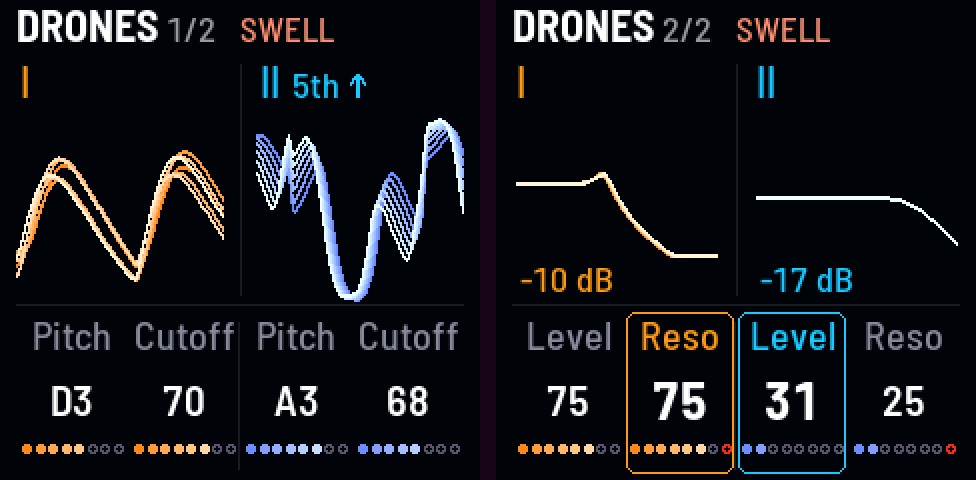
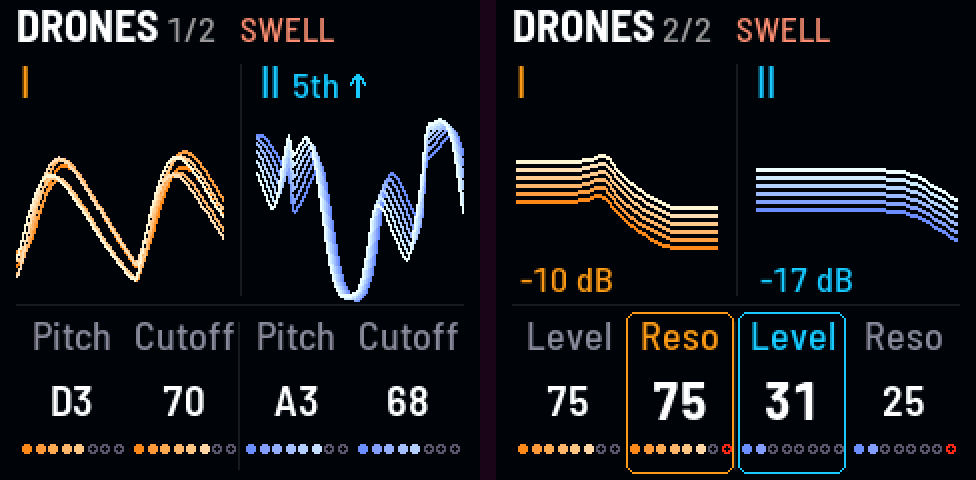
Drones 2, Osc and Sub · Drive: strand bundles again, a gap between each strand
Evan on the FM-1: the Figma's bundles, not single lines. Each still shape as six strands in its drone's ramp,
the light one in front: Osc 2 px right and 4 down a strand, Sub · Drive 3 down (its lanes are small), Drones 2's
cutoff curves 4 apart under their moving cutoffs.

Changed region(s): [[0.5225, 0.3125, 0.7377, 0.5625], [0.7684, 0.3438, 0.9836, 0.5]]

diff --git a/firmware/src/app/look.c b/firmware/src/app/look.c
@@ -289,6 +289,26 @@ static void lk_plot(int32_t x0, const int16_t *y, int n, uint16_t c)
     }
 }
 
+/* a still shape as a bundle of six strands (the Figma boards' look): the light one in front, each deeper one further
+ * back by (dx, dy), with a gap between them so it reads as strands, not a band (Evan, 2026-11-02: "the Figma looks
+ * great"). The shapes on Osc and Sub · Drive don't move with the music, so the spread is fixed */
+#define LK_BDX 2                             /* Osc and Drones 2: each strand 2 px right, 4 down */
+#define LK_BDY 4
+#define LK_SDX 0                             /* Sub · Drive's lanes are small: 3 px down */
+#define LK_SDY 3
+static void lk_bundle(int32_t x0, const int16_t *y, int n, int g, int dx, int dy)
+{
+    int j, i;
+    for (j = 0; j < 6; j++) {                  /* the deepest, furthest back, first */
+        const int32_t ox = x0 + dx * (5 - j), oy = dy * (5 - j);
+        const uint16_t c = lk_ramp(g, (float)j / 5.0f);
+        for (i = 1; i < n; i++) {
+            cv_line(ox + 2 * (i - 1), y[i - 1] + oy, ox + 2 * i, y[i] + oy, c);
+            cv_line(ox + 2 * (i - 1), y[i - 1] + oy + 1, ox + 2 * i, y[i] + oy + 1, c);
+        }
+    }
+}
+
 /* ------------------------------------------------- Drones 1's picture --- */
 /* drone II's interval from drone I, by the nearest semitone: "5th", "m10", "2 8ve 4th" (12-tone names: the Tunings'
  * ratios come with Setup 2's PR). No cents (Pitch's value shows them); which way is an arrow (Evan, 2026-11-01) */
@@ -381,7 +401,8 @@ static void lk_pic_drones2(void)
             int16_t y[51];
             for (i = 0; i <= 50; i++) {
                 const float d = filt_db(g, lk_cut_hist[g][j], 100.0f * (float)i / 50.0f);
-                y[i] = (int16_t)(bot - (int32_t)((fm_clampf(d, -36.0f, 18.0f) + 36.0f) / 54.0f * (float)h * lf));
+                y[i] = (int16_t)(bot - LK_BDY * (j + 1) -
+                                 (int32_t)((fm_clampf(d, -36.0f, 18.0f) + 36.0f) / 54.0f * (float)(h - 6 * LK_BDY) * lf));
             }
             lk_plot(x0, y, 51, lk_ramp(g, (float)j / (float)(LK_STRANDS - 1)));
         }
@@ -420,10 +441,9 @@ static void lk_pic_osc(void)
         for (i = 0; i <= 50; i++) {
             float ph = 2.0f * (float)i / 50.0f;
             ph -= (float)(int)ph;
-            y[i] = (int16_t)(top + half - (int32_t)(xwave_at(x, pw, ph) * (float)half * 0.4f));
+            y[i] = (int16_t)(top + half - 5 * LK_BDY / 2 - (int32_t)(xwave_at(x, pw, ph) * (float)half * 0.4f));
         }
-        lk_plot(x0, y, 51, LK_DRONE[g]);
-        lk_plot(x0 + 1, y, 51, LK_DRONE[g]);
+        lk_bundle(x0, y, 51 - 5 * LK_BDX / 2, g, LK_BDX, LK_BDY);
     }
     for (i = 0; i < 4; i++) {                  /* Width without a square in the wave: why, above it */
         const int p = knob_param(i);
@@ -465,14 +485,13 @@ static void lk_pic_source(void)
             cv_text(x0, yc - (int32_t)LK_F_TAG.h / 2, &LK_F_TAG, k ? "sub" : "osc", LK_LABEL);
             {                                  /* the wave after its lane's name */
                 int16_t y[37];
-                for (i = 0; i <= 36; i++) {
-                    float ph = 2.0f * (float)i / 36.0f, v;
+                for (i = 0; i <= 36 - 5 * LK_SDX / 2; i++) {
+                    float ph = 2.0f * (float)i / (36.0f - (float)(5 * LK_SDX / 2)), v;
                     ph -= (float)(int)ph;
                     v = share[k] * (k ? lk_sub_at(sw, ph) : xwave_at(x, pw, ph));
-                    y[i] = (int16_t)(yc - (int32_t)(fm_tanhf(drv * v) / td * (float)amp));
+                    y[i] = (int16_t)(yc - 5 * LK_SDY / 2 - (int32_t)(fm_tanhf(drv * v) / td * (float)amp));
                 }
-                lk_plot(x0 + 28, y, 37, LK_DRONE[g]);
-                lk_plot(x0 + 29, y, 37, LK_DRONE[g]);
+                lk_bundle(x0 + 28, y, 37 - 5 * LK_SDX / 2, g, LK_SDX, LK_SDY);
             }
         }
     }
@@ -570,11 +589,11 @@ static void lk_life_drift(int32_t cx, int32_t top, int32_t bot)
 }
 
 /* CHARACTER: the sound's first nine harmonics, drone I's filled, drone II's outlined over them, each as the engine
- * makes them: a saw's 1/n, rolled off by Character's one-pole (its corner 8 kHz .. 1.2 kHz, at the drone's pitch)
+ * makes them: a saw's 1/n, rolled off by Character's one-pole (its corner 8 kHz .. 500 Hz, at the drone's pitch)
  * and the evens lifted by its bend (asym); a short tick where a clean saw's reach */
 static void lk_life_char(int32_t x0, int32_t top, int32_t bot)
 {
-    const float chr = (float)proj.par[P_CHAR] * 0.01f, asym = 0.25f * chr, fc = 8000.0f * fm_exp2f(-2.73697f * chr);
+    const float chr = (float)proj.par[P_CHAR] * 0.01f, asym = CHR_ASYM * chr, fc = 8000.0f * fm_exp2f(-CHR_K * chr);
     const float hh = (float)(bot - top);
     int g, n;
     for (n = 1; n <= 9; n++)                   /* the clean saw's */
@@ -613,7 +632,7 @@ static void lk_life_age(int32_t x0, int32_t cy, int32_t top, int32_t bot)
         int32_t px = 0, py = 0;
         for (i = -10; i <= 26; i++) {          /* two cycles over 52 px, 10 points to settle the rounding */
             const float x = (float)i / 13.0f;
-            float u = x + a * 0.12f * fm_sinf(tw * 0.21f + 0.9f * x) + 0.03f * fl, s;
+            float u = x + a * (0.12f / 14.0f * (float)AGE_WOW) * fm_sinf(tw * 0.21f + 0.9f * x) + 0.03f * fl, s;
             u -= (float)(int)(u + 8.0f) - 8.0f;
             s = 1.0f - 2.0f * u;
             r += (s - r) * k;
